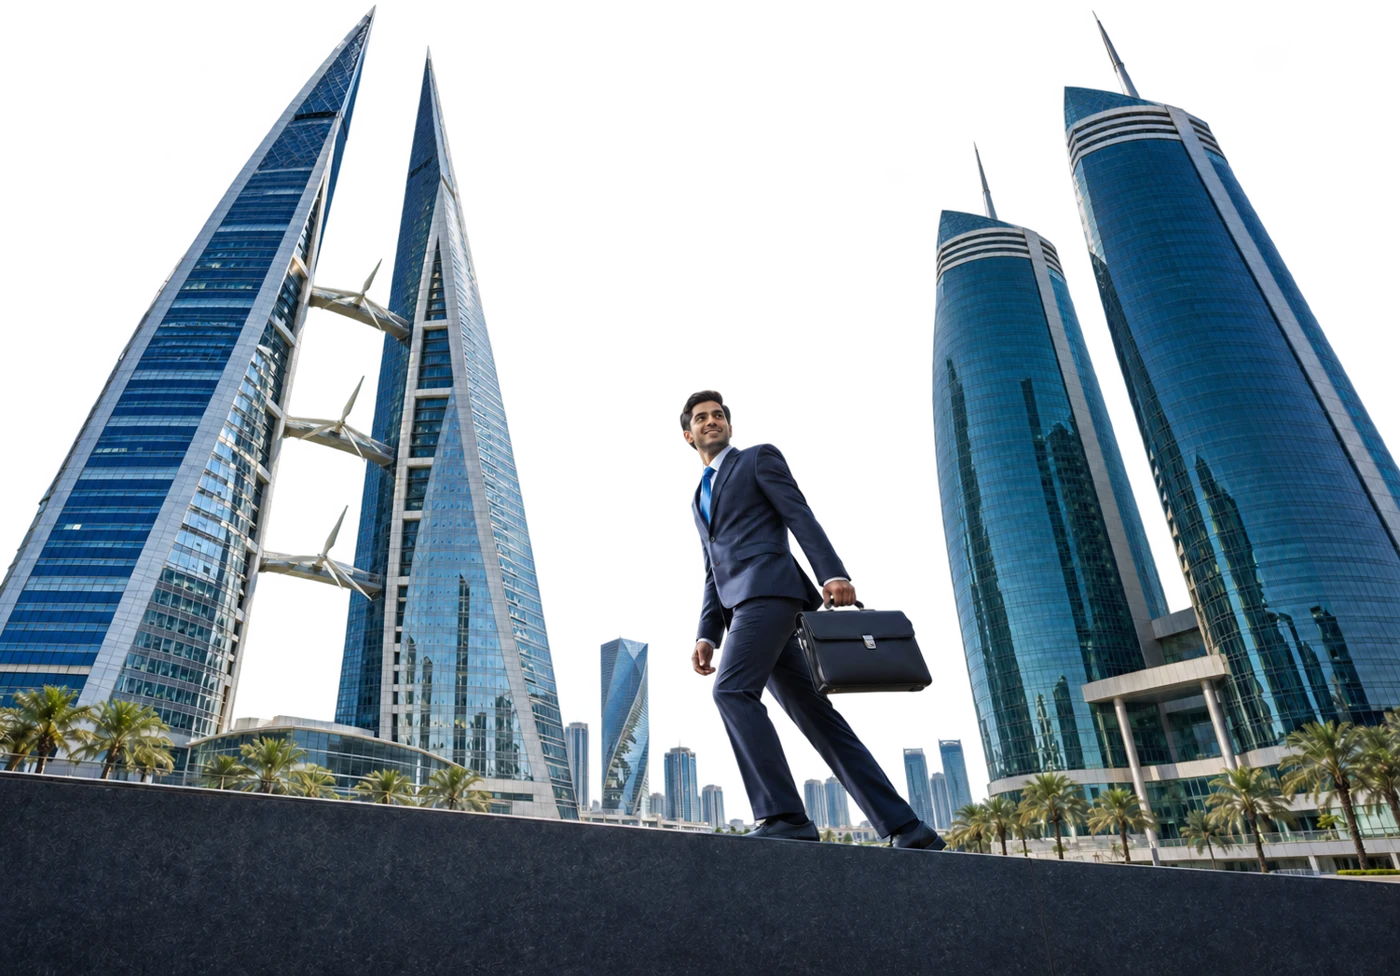
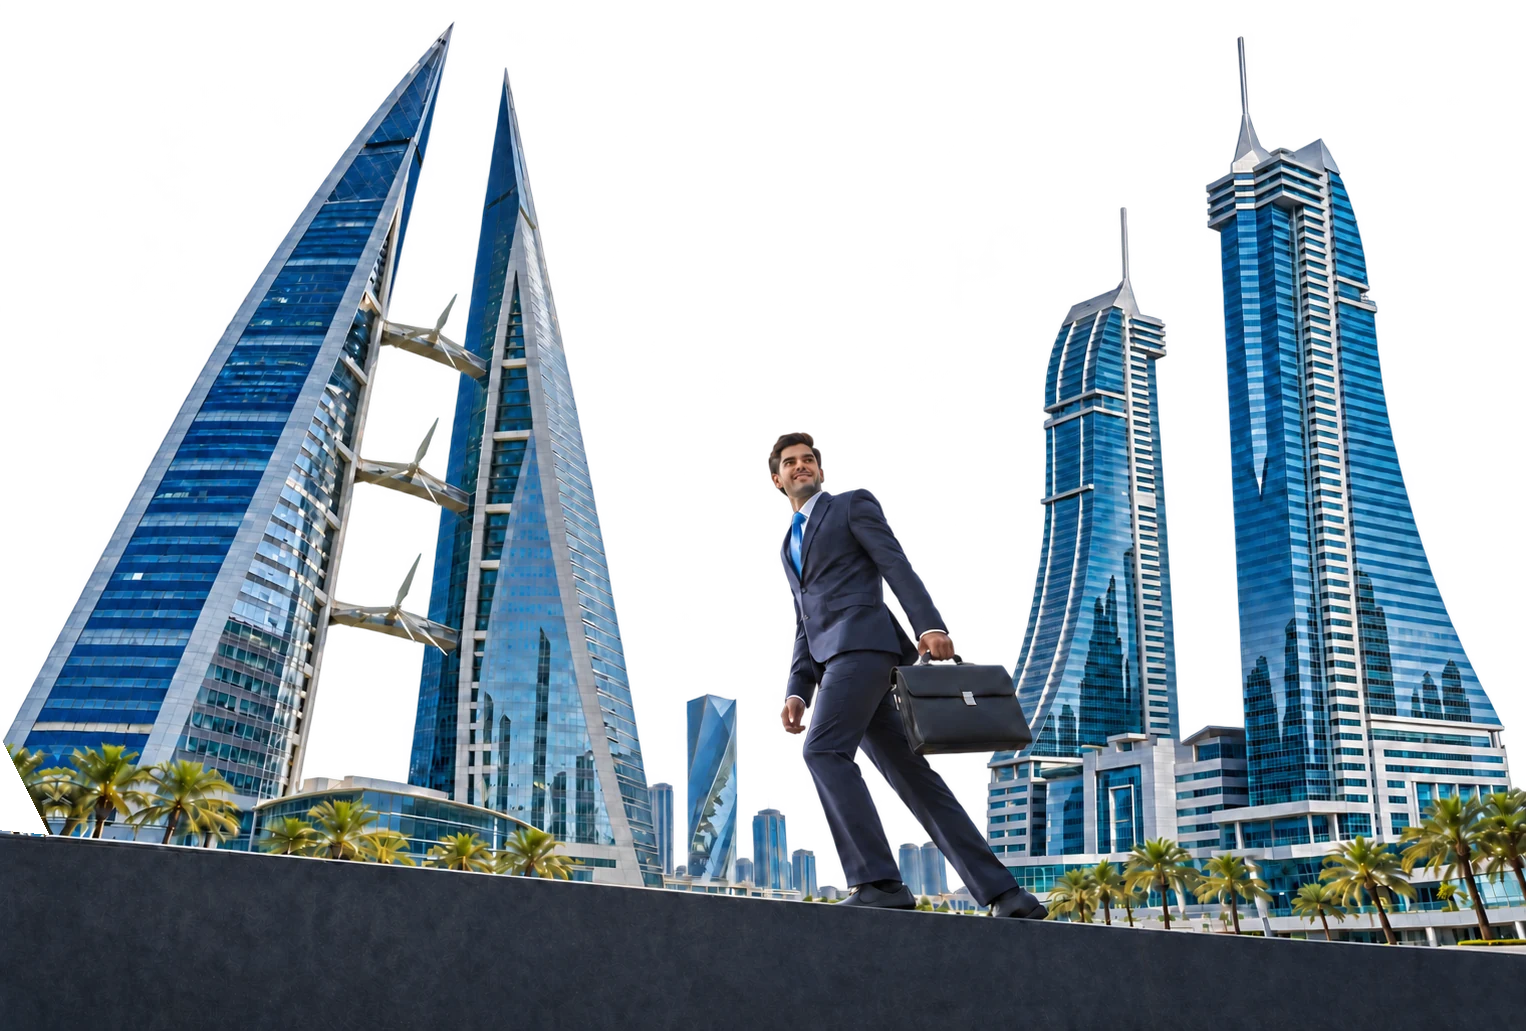
Company registration: new businessman towers hero image
Claude-Session: https://claude.ai/code/session_01Q8SfPFzKec2UT1Fop63zbA

diff --git a/company-registration.html b/company-registration.html
@@ -7458,7 +7458,7 @@ input, select, textarea {
     <!-- COMPANY REGISTRATION HERO -->
     <section class="crh crh2" aria-labelledby="cr-title">
       <!-- EDIT: hero background image -->
-      <picture style="display:contents"><source media="(max-width:900px)" srcset="assets/cr-hero-towers.webp"><img class="crh2-art" src="assets/cr-hero-towers-wide.webp?v=2" alt="Businessman walking past Bahrain World Trade Center towers" width="1400" height="976" fetchpriority="high" decoding="async"></picture>
+      <picture style="display:contents"><source media="(max-width:900px)" srcset="assets/cr-hero-towers.webp?v=3"><img class="crh2-art" src="assets/cr-hero-towers-wide.webp?v=3" alt="Businessman walking past Bahrain World Trade Center towers" width="2757" height="1031" fetchpriority="high" decoding="async"></picture>
       <div class="crh-shade" aria-hidden="true"></div>
       <div class="crh-copy">
         <nav class="dms-crumb crh-kicker" aria-label="Breadcrumb"><a href="services.html">Services</a><svg viewBox="0 0 24 24" aria-hidden="true"><path d="m9 6 6 6-6 6"/></svg><span class="dms-kg" aria-current="page">Company registration services</span></nav>
